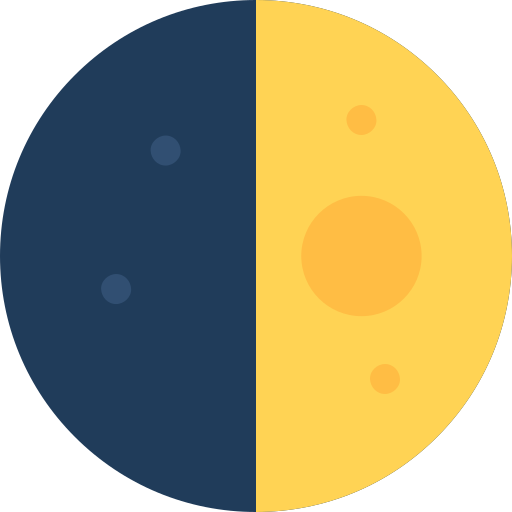
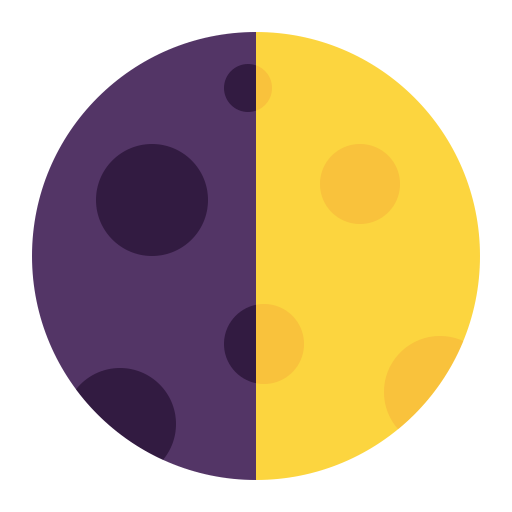
fix(meteo:moon): change moon image to use FlatUI emoji

diff --git a/src/display/meteo.ts b/src/display/meteo.ts
@@ -45,14 +45,14 @@ export function generateEmbed(data: CurrentWeather, city: string) {
 	const time = data.weather.icon.raw.replace(/\d{2}/, "") as "d" | "n";
 	const icon = meteoImage[raw][time];
 	const moon = {
-		"Waxing Crescent" : `${IMAGE_LINK}/meteo/moon/waxing-crescent.png`,
-		"First Quarter" : `${IMAGE_LINK}/meteo/moon/first-quarter.png`,
-		"New" : `${IMAGE_LINK}/meteo/moon/new-moon.png`,
-		"Waxing Gibbous" : `${IMAGE_LINK}/meteo/moon/waning-gibbous.png`,
-		"Full" : `${IMAGE_LINK}/meteo/moon/full-moon.png`,
-		"Waning Gibbous" : `${IMAGE_LINK}/meteo/moon/waning-gibbous.png`,
-		"Last Quarter" : `${IMAGE_LINK}/meteo/moon/third-quarter.png`,
-		"Waning Crescent" : `${IMAGE_LINK}/meteo/moon/waning-crescent.png`,
+		"Waxing Crescent" : `${IMAGE_LINK}/meteo/moon/waxing-crescent.png`, //🌒
+		"First Quarter" : `${IMAGE_LINK}/meteo/moon/first-quarter.png`, //🌓
+		"New" : `${IMAGE_LINK}/meteo/moon/new-moon.png`, //🌑
+		"Waxing Gibbous" : `${IMAGE_LINK}/meteo/moon/waxing-gibbous.png`, //🌔
+		"Full" : `${IMAGE_LINK}/meteo/moon/full-moon.png`, //🌕
+		"Waning Gibbous" : `${IMAGE_LINK}/meteo/moon/waning-gibbous.png`, //🌖
+		"Last Quarter" : `${IMAGE_LINK}/meteo/moon/third-quarter.png`, //🌗
+		"Waning Crescent" : `${IMAGE_LINK}/meteo/moon/waning-crescent.png`, //🌘
 	};
 	const wind = convertDegToArrow(data.weather.wind.deg);
 	const main = translationMain[data.weather.main as keyof typeof translationMain];
